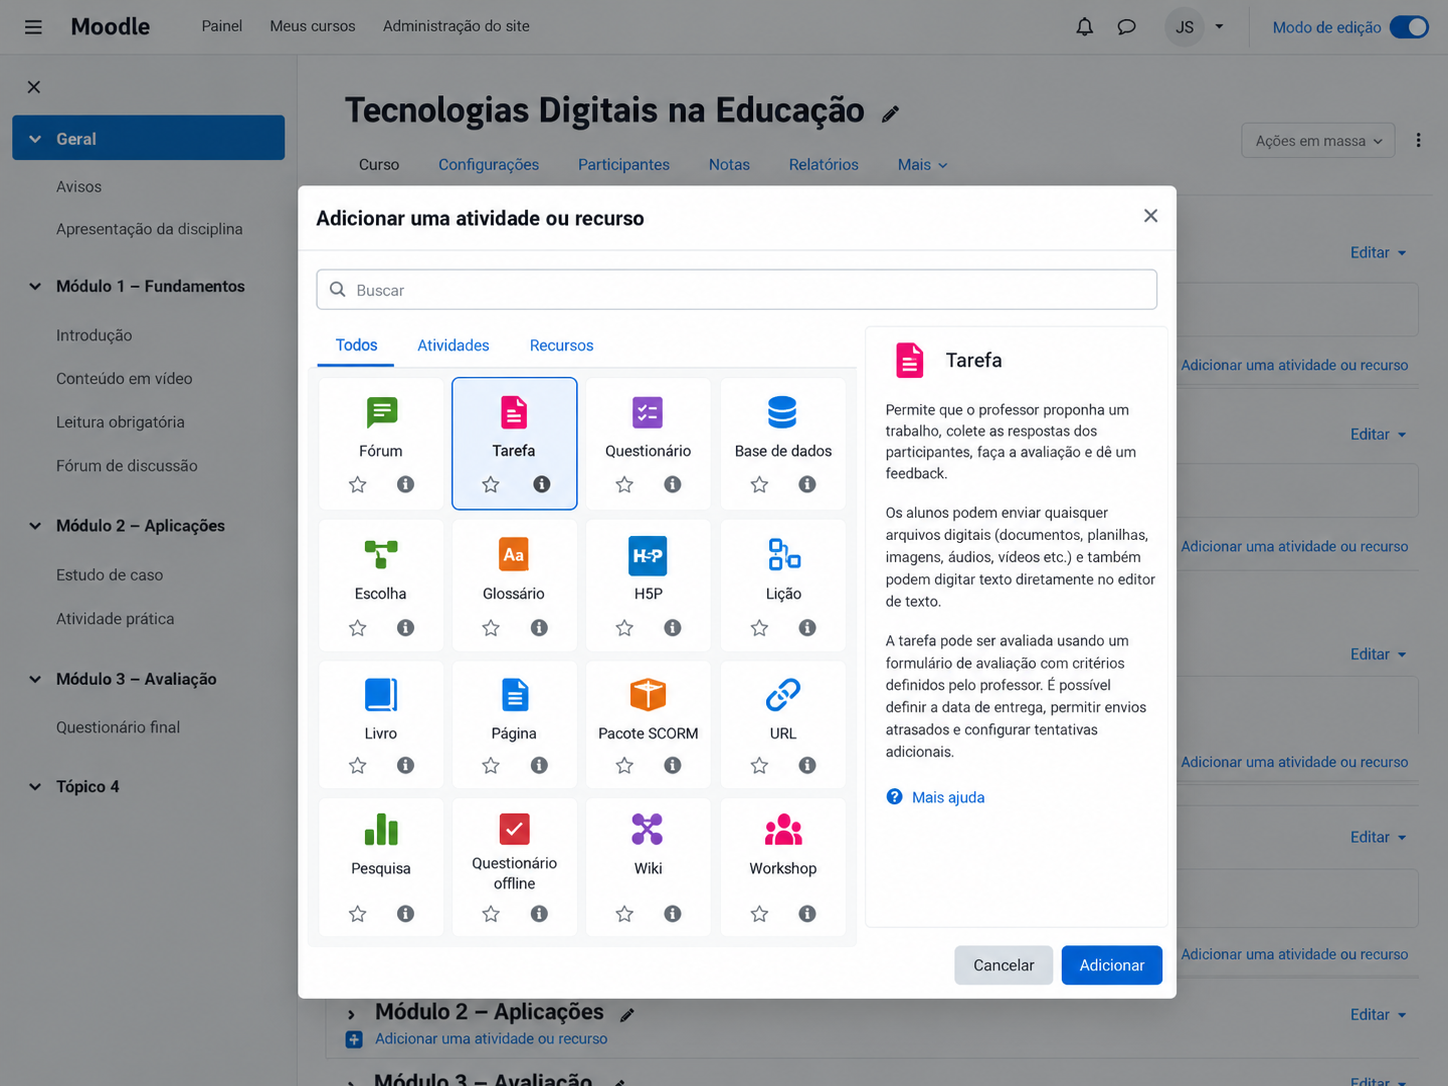
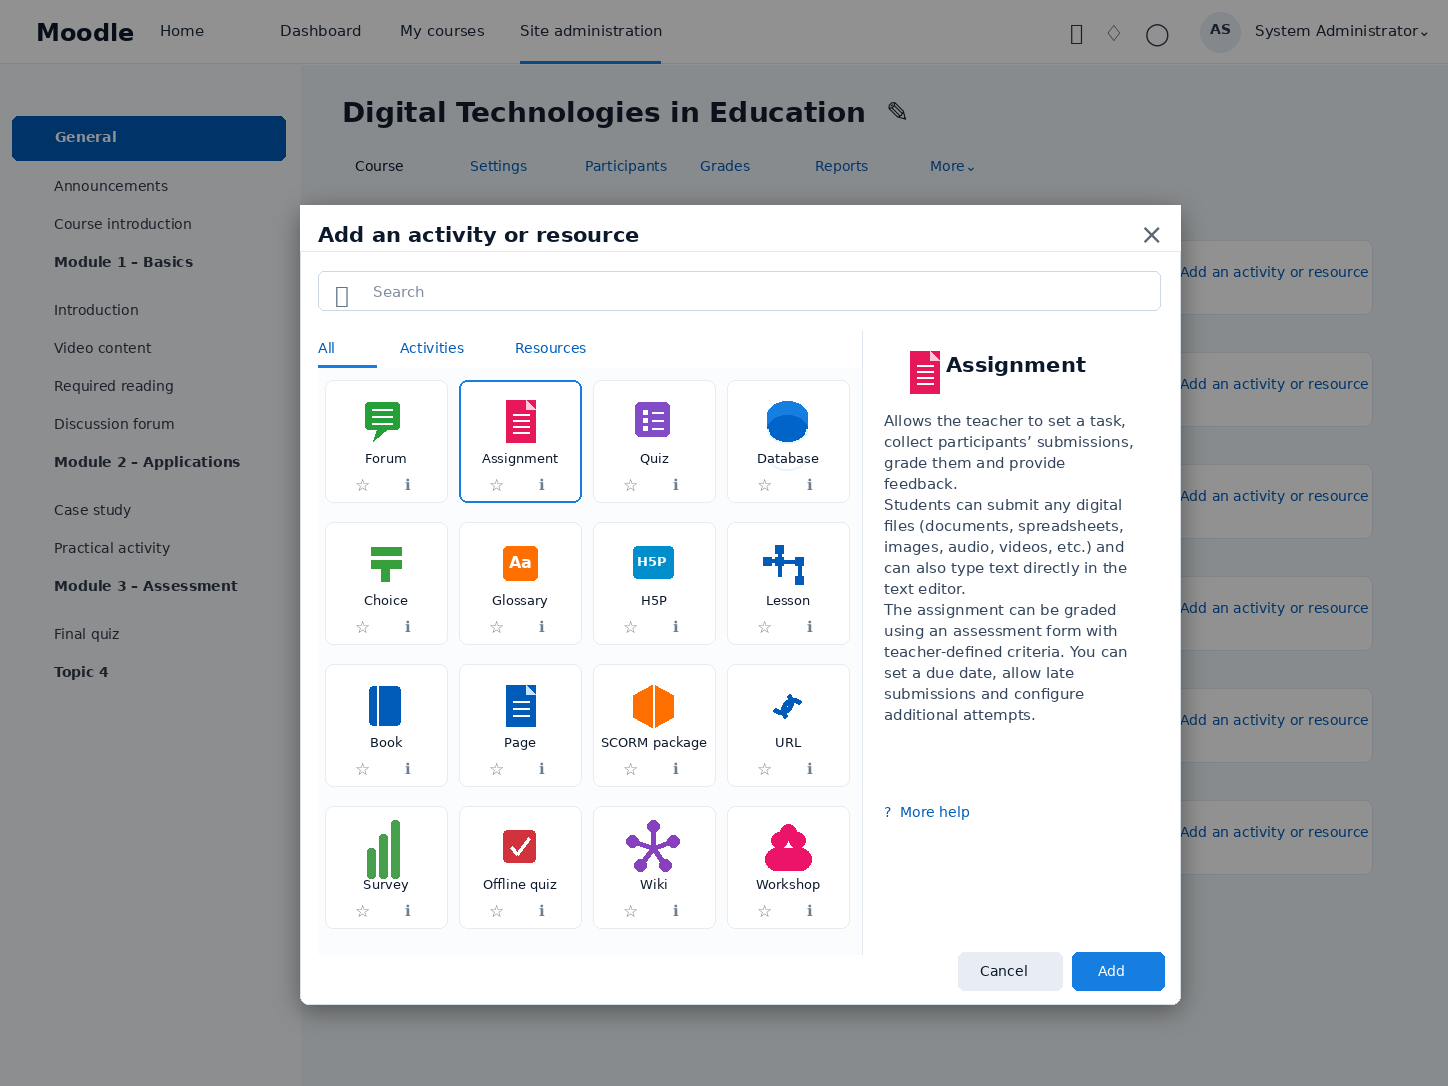
Revert incorrect English image replacements

diff --git a/docs/en/chapters/Chapter_10_Events_Callbacks_and_Hooks.md b/docs/en/chapters/Chapter_10_Events_Callbacks_and_Hooks.md
@@ -354,6 +354,8 @@ When order matters, document why and keep behavior predictable. Priority should 
 
 ![Hooks overview in Moodle](image/chapter10-hooks-overview-in-moodle.png)
 
+![Visao geral dos hooks no moodle](image/cap10-visao-geral-dos-hooks-no-moodle.png)
+
 One practical advantage of the Hooks API is the overview page available to administrators and developers. It lists discovered Hooks and registered callbacks, letting you see who reacts to a given extension point without searching every `lib.php` in the installation for function names.
 
 This visibility changes support significantly in large environments. When a customization interferes with a flow, you can start from the Hook and see consumers and priorities rather than depending only on grep. Hooks inside the standard `*[component]\hook\*` namespace are discovered automatically, while non-standard locations require a discovery agent.

diff --git a/docs/en/chapters/Chapter_17_Activity_Modules.md b/docs/en/chapters/Chapter_17_Activity_Modules.md
@@ -457,6 +457,8 @@ If you need to discover where the activity is, move it, or reorganize modules, u
 
 ![Moodle activity chooser window](image/chapter17-moodle-activity-chooser-window.png)
 
+![Janela de atividade no moodle](image/cap17-janela-de-atividade-no-moodle.png)
+
 When a teacher enables editing and asks to add an activity or resource, your module enters the activity chooser. Name, icon, capabilities, and purpose influence that experience.
 
 The `mod/example:addinstance` capability controls who may create the activity, while `FEATURE_MOD_PURPOSE` helps Moodle classify it. In Moodle 5.1 the activity chooser was also internally refactored and began using new attributes in course-format rendering, reinforcing an important rule: activity plugins should depend on the public chooser contract, not details of theme or format HTML.

diff --git a/docs/en/chapters/Chapter_11_Cron_Tasks_and_Asynchronous_Processing.md b/docs/en/chapters/Chapter_11_Cron_Tasks_and_Asynchronous_Processing.md
@@ -121,6 +121,8 @@ The correct design normally uses batches, cursors, recordsets, or some progress 
 
 ![Moodle scheduled tasks administration](image/chapter11-moodle-scheduled-tasks-administration.png)
 
+![Administracao de tarefas agendadas do moodle](image/cap11-administracao-de-tarefas-agendadas-do-moodle.png)
+
 Scheduled Tasks appear in Moodle administration and administrators can change the schedule, disable execution, and inspect task information. This matters because a plugin does not know every infrastructure environment where it will be installed.
 
 You may think synchronizing an ERP every minute is reasonable, but a customer's endpoint may allow only one hundred calls per hour. A nightly cleanup may be cheap in one environment and heavy in another. Allowing administrative adjustment is part of Task API architecture.

diff --git a/docs/en/chapters/Chapter_22_Question_Engine_and_Quiz.md b/docs/en/chapters/Chapter_22_Question_Engine_and_Quiz.md
@@ -20,6 +20,8 @@ Mixing these responsibilities usually produces fragile code. If a plugin only ne
 
 ![Course question bank](image/chapter22-course-question-bank.png)
 
+![Banco de questoes do curso](image/cap22-banco-de-questoes-do-curso.png)
+
 The Question Bank is the layer where teachers create, organise, edit, and manage reusable questions. Since Moodle 4.0 it has stopped being merely an interface over the `question` table and gained an explicit architecture of entries, versions, and `qbank` plugins.
 
 This matters because the logical identity of a question and the concrete version that will be attempted are no longer exactly the same thing. A question called "Capital of Brazil" may have five versions over time while still representing the same entry in the Question Bank.

diff --git a/docs/en/chapters/Chapter_12_Cache_and_Performance.md b/docs/en/chapters/Chapter_12_Cache_and_Performance.md
@@ -172,6 +172,8 @@ Also consider cardinality. A global cache with one huge entry per user, course, 
 
 ![Moodle cache configuration](image/chapter12-moodle-cache-configuration.png)
 
+![Configuracao de cache no moodle](image/cap12-configuracao-de-cache-no-moodle.png)
+
 A store is the physical implementation holding values. Moodle has specific plugin types for this, such as `cachestore`, and an installation can have several stores configured and mapped to different definitions.
 
 Plugin code should not normally choose the store. Your job is to describe the cache. The administrator knows topology, available memory, cluster layout, latency, and operational requirements and is therefore better placed to decide where each definition should live.

diff --git a/docs/en/chapters/Chapter_08_Security.md b/docs/en/chapters/Chapter_08_Security.md
@@ -145,7 +145,7 @@ There are exceptions where you genuinely need to work with roles, particularly i
 
 ## 8.6 Capabilities
 
-![Teacher permissions in Moodle](image/chapter08-teacher-permissions-in-moodle.png)
+![Teacher permissions in Moodle](image/cap08-permissoes-do-professor.png)
 
 A capability represents an action that can be allowed or denied in a context. Good names describe the action, not the type of user. `local_catalog:manageitems`, `mod_example:grade`, and `tool_sync:run` communicate what is being authorized, while names such as `local_catalog:teacher` mix authorization with an institutional role that may not even exist on another site.
 

diff --git a/docs/en/chapters/Chapter_07_Forms_API.md b/docs/en/chapters/Chapter_07_Forms_API.md
@@ -548,7 +548,7 @@ Even so, a Dynamic Form is not a generic Web Service. If the feature must be con
 
 ## 7.40 `moodleform_mod`
 
-![Moodle activity settings](image/chapter07-moodle-activity-settings.png)
+![Moodle activity settings](image/cap07-configuracoes-de-atividade-no-moodle.png)
 
 `moodleform_mod` is the specialization used by the create/edit form for Activity Modules. It understands concepts a generic `moodleform` does not, including the course, course module, common activity settings, groups, availability, completion, and the standard elements of a module form.
 

diff --git a/docs/en/chapters/Chapter_09_Files_API_and_Moodledata.md b/docs/en/chapters/Chapter_09_Files_API_and_Moodledata.md
@@ -228,7 +228,7 @@ This is another reason not to call `is_dir()` or `scandir()` on `filedir`. You w
 
 ## 9.24 Filepicker
 
-![Moodle file picker](image/chapter09-moodle-file-picker.png)
+![Moodle file picker](image/cap09-seletor-de-arquivos-no-moodle.png)
 
 `filepicker` is appropriate when the form needs to receive a file for a one-off operation. It integrates selection with Moodle repositories and puts the file into the user's draft area. At that point the file is not yet in your plugin's permanent filearea.
 

diff --git a/docs/en/chapters/Chapter_05_Database_and_XMLDB.md b/docs/en/chapters/Chapter_05_Database_and_XMLDB.md
@@ -587,7 +587,7 @@ This neutral definition is also why you should not edit `install.xml` as if it w
 
 ## 5.35 XMLDB Editor
 
-![Moodle XMLDB Editor](image/chapter05-moodle-xmldb-editor.png)
+![Moodle XMLDB Editor](image/cap05-editor-xmldb-do-moodle.png)
 
 The XMLDB Editor is available among administration's development tools and lets you create or load a component's `install.xml`, edit tables, and generate upgrade snippets.
 

diff --git a/docs/en/chapters/Chapter_14_Web_Services_and_Integrations.md b/docs/en/chapters/Chapter_14_Web_Services_and_Integrations.md
@@ -152,6 +152,8 @@ This separation lets you control which functions a particular integration may us
 
 ![Moodle external services administration](image/chapter14-moodle-external-services-administration.png)
 
+![Administracao de servicos externos no moodle](image/cap14-administracao-de-servicos-externos-no-moodle.png)
+
 The plugin can declare a service in `db/services.php`.
 
 ```php
